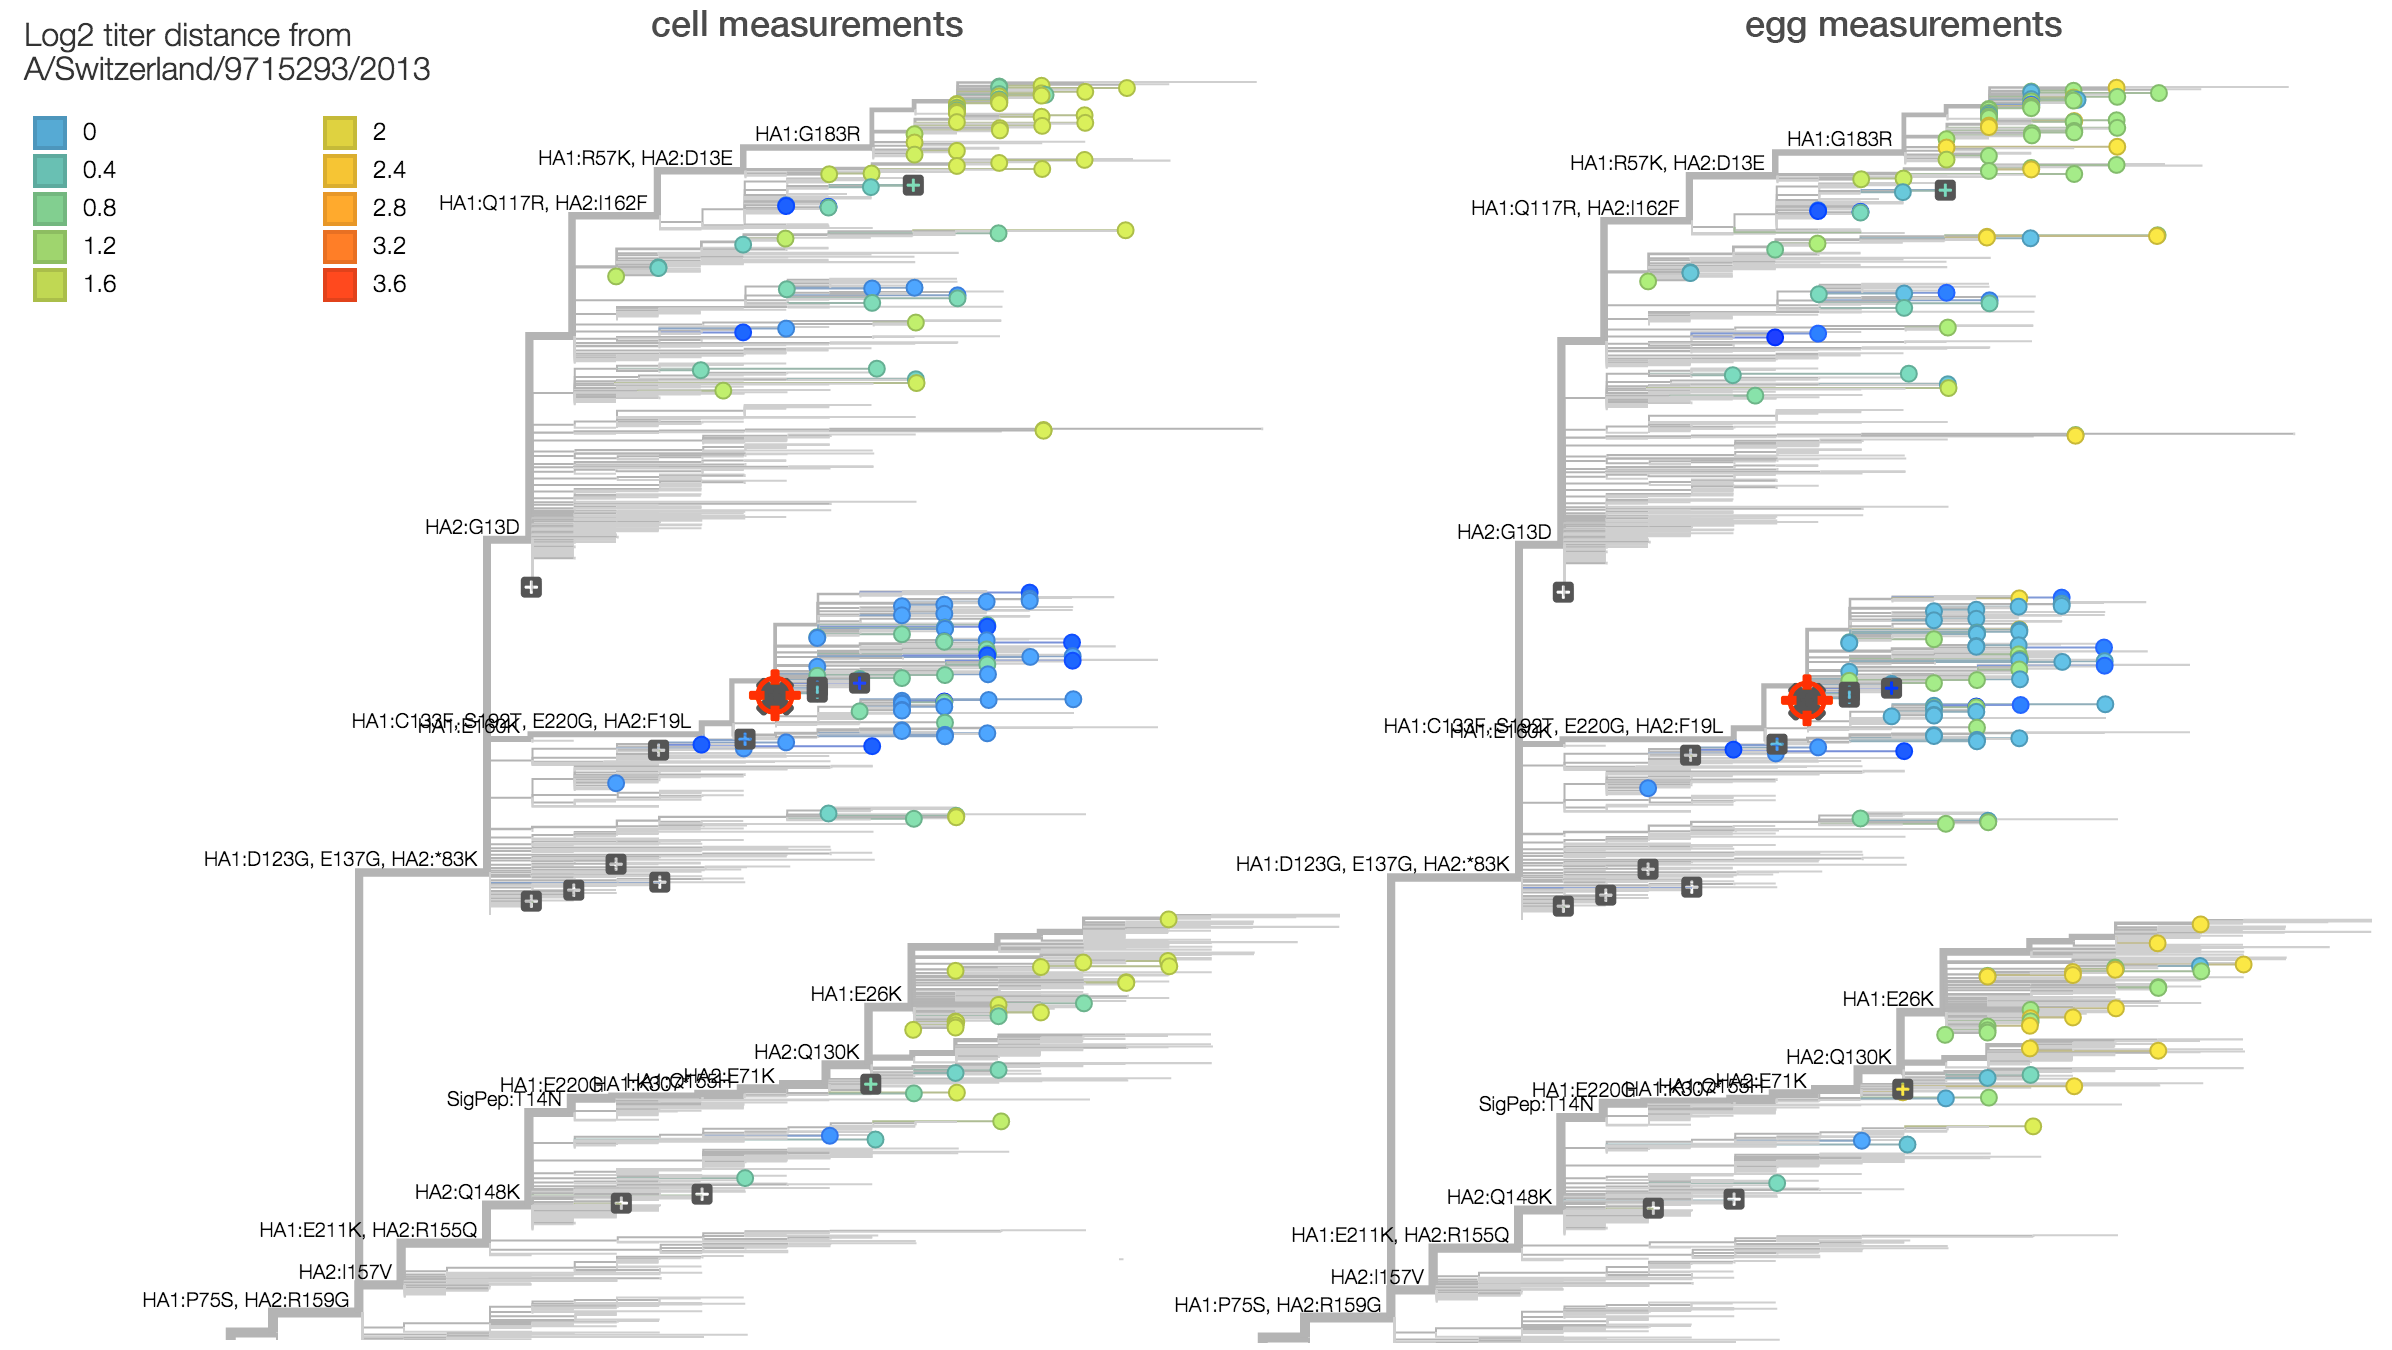
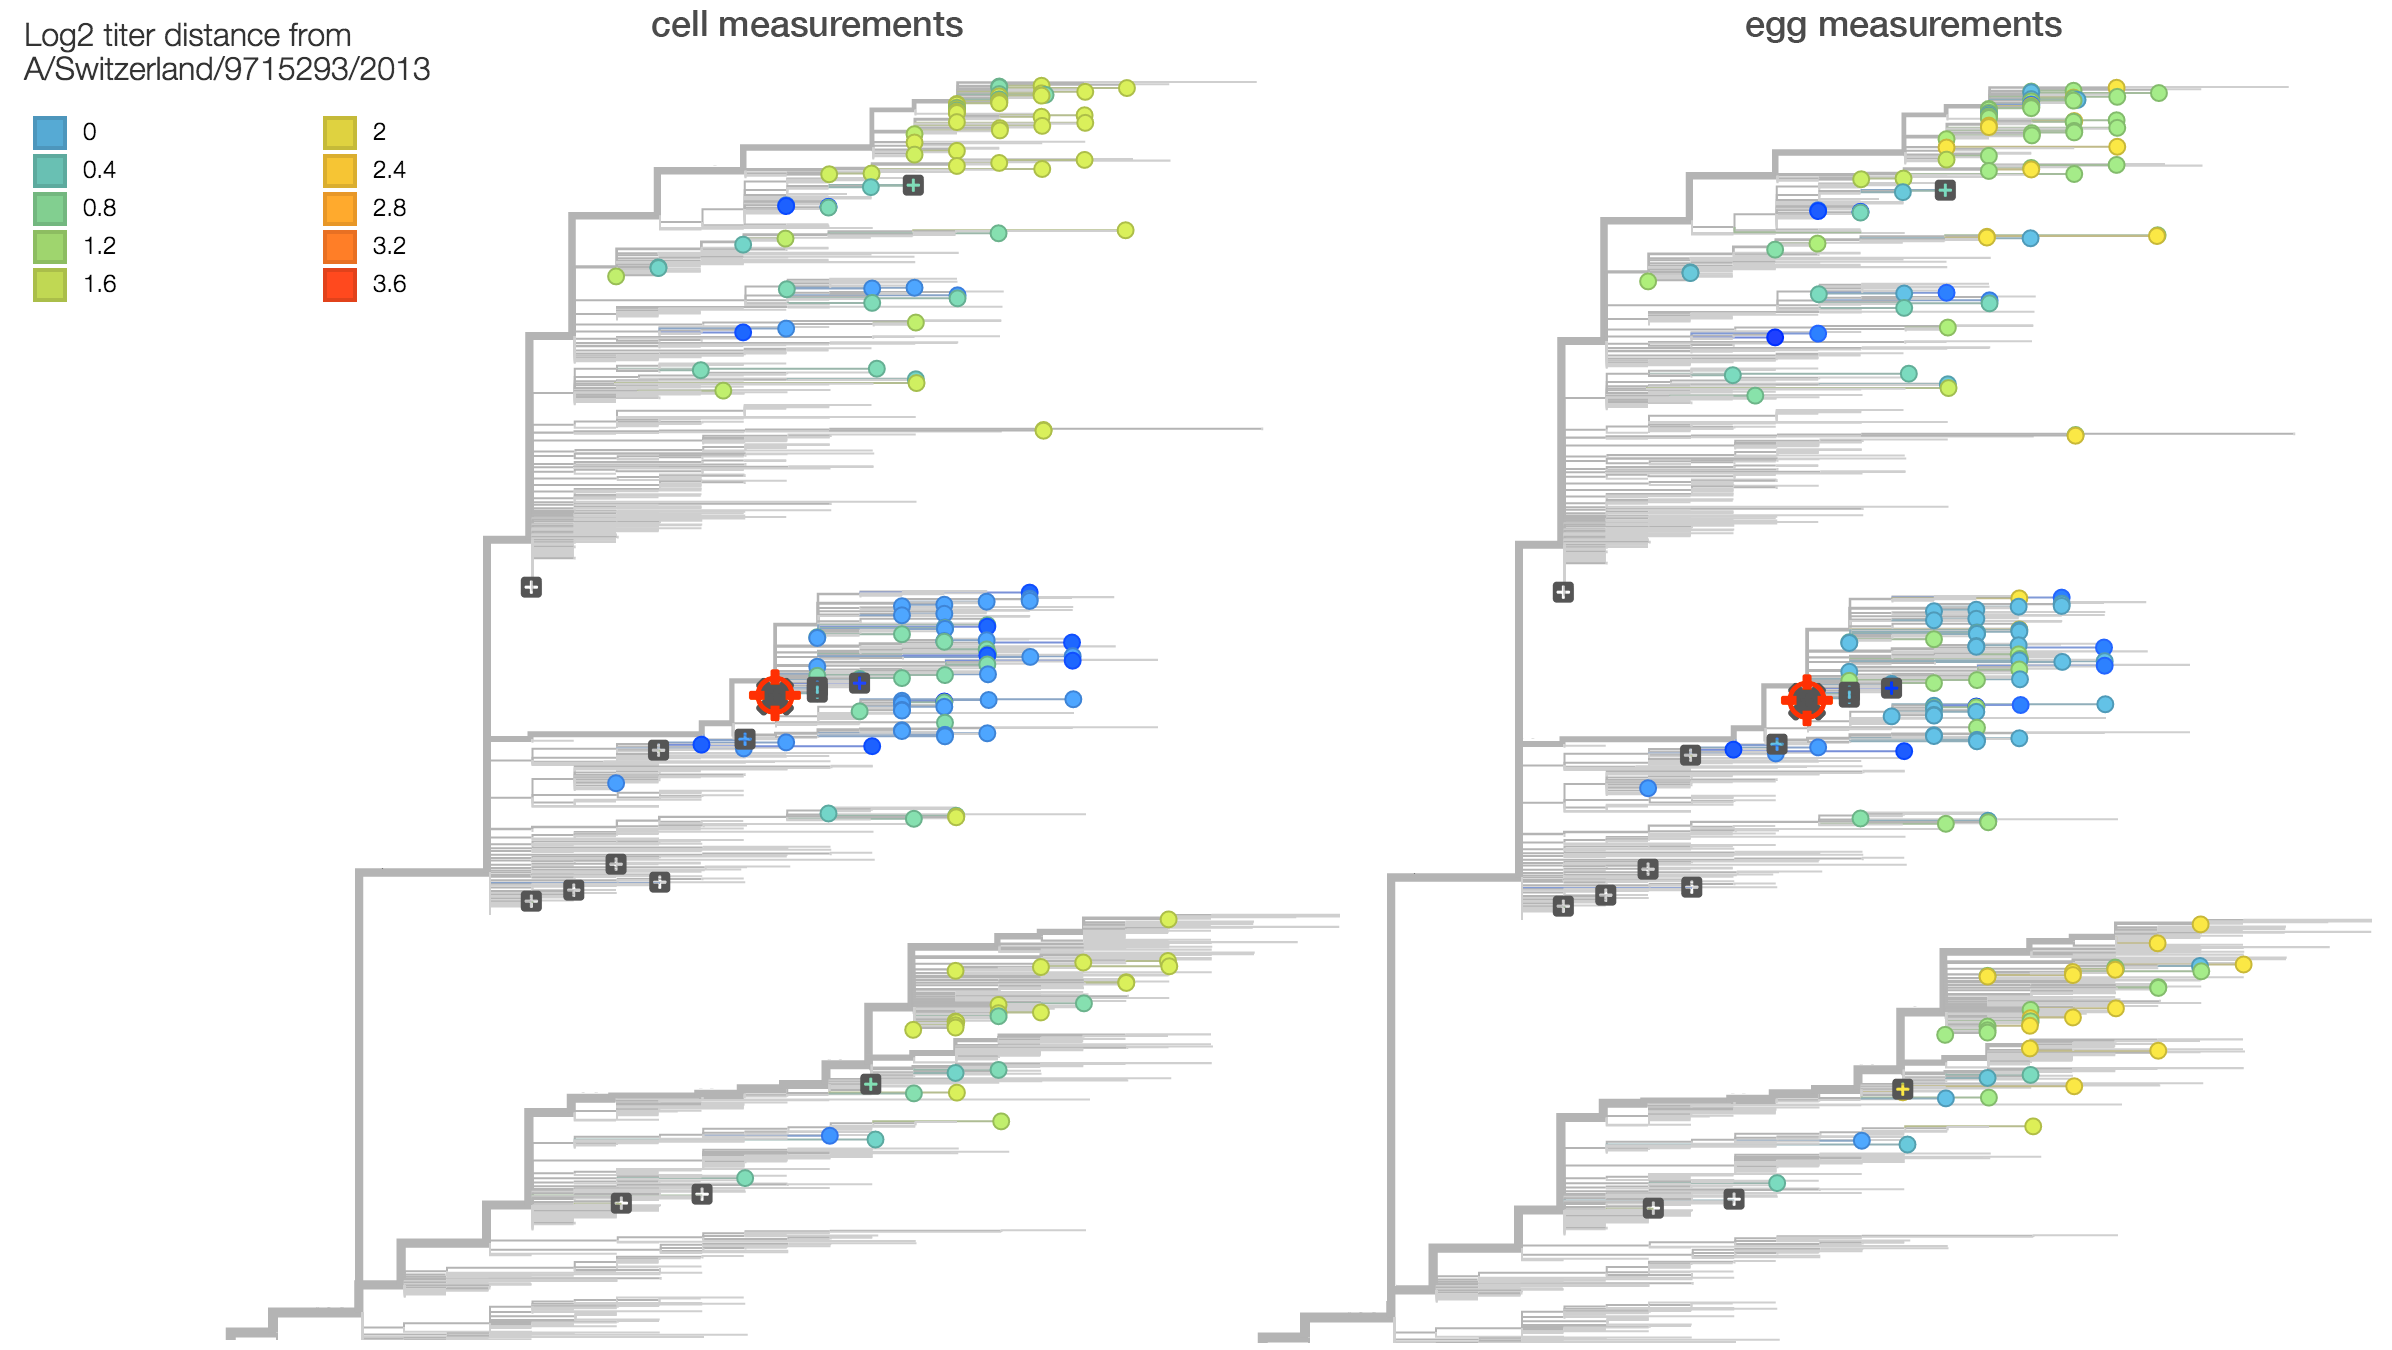
Add note on serum potencies and remove incorrect mutation labels.

diff --git a/auspice/reports/_posts/2015-09-16-sep-2015.html b/auspice/reports/_posts/2015-09-16-sep-2015.html
@@ -38,7 +38,7 @@ title: Seasonal influenza circulation patterns and future projections
 		
 		{% embed_image /reports/figures/sep-2015/H3N2_HI_titers.png 12 %}
 		
-		Here we compare titer measurements between cell-culture based serum NIBF13/14 on the left and the egg-culture based serum F25/14 on the right. Averaged across measurements, titer drop between cell-culture serum and egg-culture serum is similar with an average antigenic distance of 1.5 for cell-culture measurements and an average antigenic distance of 1.5 for egg-culture measurements. This suggests that egg-adaptation during production of serum F25/14 did not result in antigenic change relative to 3c2.a viruses.
+		Here we compare titer measurements between cell-culture based serum NIBF13/14 on the left and the egg-culture based serum F25/14 on the right. Averaged across measurements, titer drop between cell-culture serum and egg-culture serum is similar with an average antigenic distance of 1.5 for cell-culture measurements and an average antigenic distance of 1.5 for egg-culture measurements. Note however, that absolute titers against F25/14 are higher than against NIBF13/14. This suggests higher "serum potency" in the egg-culture serum, although we do not observe a difference in titer drop. This suggests that egg-adaptation during production of serum F25/14 did not result in antigenic change relative to 3c2.a viruses.
 	
 		{% embed_image /reports/figures/sep-2015/H3N2_HI_titers_ce.png 12 %}
 		

diff --git a/auspice/reports/tex/sep-2015.tex b/auspice/reports/tex/sep-2015.tex
@@ -120,7 +120,7 @@ Summarizing data from recent reports by the WHO CC London, we observe approximat
 	\label{H3N2_HI_titers}
 \end{figure}
 
-Here we compare titer measurements between cell-culture based serum NIBF13/14 on the left and the egg-culture based serum F25/14 on the right (Fig.~\ref{H3N2_HI_titers_ce}). Averaged across measurements, titer drop between cell-culture serum and egg-culture serum is similar with an average antigenic distance of 1.5 for cell-culture measurements and an average antigenic distance of 1.5 for egg-culture measurements. This suggests that egg-adaptation during production of serum F25/14 did not result in antigenic change relative to 3c2.a viruses.
+Here we compare titer measurements between cell-culture based serum NIBF13/14 on the left and the egg-culture based serum F25/14 on the right (Fig.~\ref{H3N2_HI_titers_ce}). Averaged across measurements, titer drop between cell-culture serum and egg-culture serum is similar with an average antigenic distance of 1.5 for cell-culture measurements and an average antigenic distance of 1.5 for egg-culture measurements. Note however, that absolute titers against F25/14 are higher than against NIBF13/14. This suggests higher "serum potency" in the egg-culture serum, although we do not observe a difference in titer drop. This suggests that egg-adaptation during production of serum F25/14 did not result in antigenic change relative to 3c2.a viruses.
 
 \begin{figure}[h!]
 	\centering		
